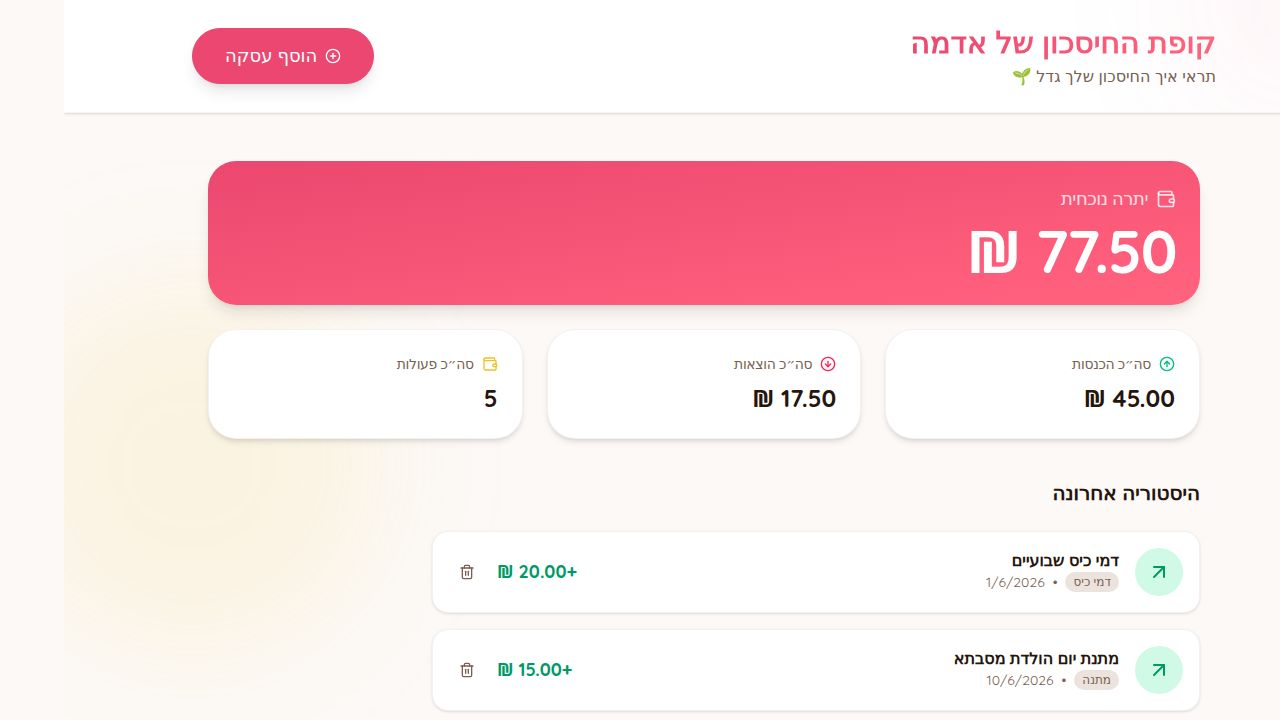
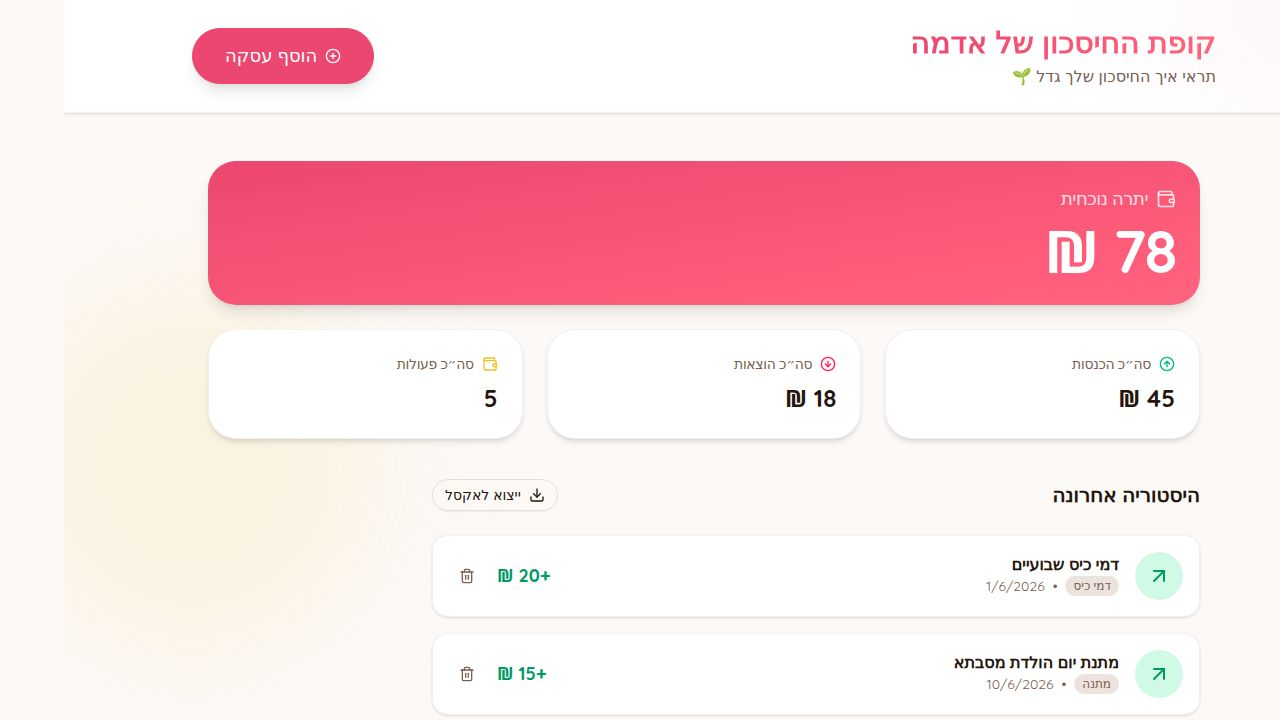
Add a button to export transaction data to an Excel file
Installs the `xlsx` package and adds a button to the transaction list component to export data to an Excel file with Hebrew column headers.

Replit-Commit-Author: Agent
Replit-Commit-Session-Id: feffa5e3-03b7-4a28-9c27-c189258d5397
Replit-Commit-Checkpoint-Type: full_checkpoint
Replit-Commit-Event-Id: 1dca9d4b-5010-4ef9-895c-2fdeb6291b89
Replit-Commit-Screenshot-Url: https://storage.googleapis.com/screenshot-production-us-central1/8194709f-346a-4715-935a-16188dc4f2d8/feffa5e3-03b7-4a28-9c27-c189258d5397/hXwExMm
Replit-Helium-Checkpoint-Created: true

diff --git a/artifacts/piggy-bank/src/components/transaction-list.tsx b/artifacts/piggy-bank/src/components/transaction-list.tsx
@@ -1,7 +1,7 @@
 import { useListTransactions, useDeleteTransaction, getListTransactionsQueryKey, getGetBalanceQueryKey, getGetSummaryQueryKey } from "@workspace/api-client-react";
 import { Card, CardContent } from "@/components/ui/card";
 import { format } from "date-fns";
-import { ArrowDownRight, ArrowUpRight, Trash2, Coins } from "lucide-react";
+import { ArrowDownRight, ArrowUpRight, Trash2, Coins, Download } from "lucide-react";
 import { Button } from "@/components/ui/button";
 import { Skeleton } from "@/components/ui/skeleton";
 import {
@@ -19,6 +19,7 @@ import { useQueryClient } from "@tanstack/react-query";
 import { useToast } from "@/hooks/use-toast";
 import { cn } from "@/lib/utils";
 import { useState } from "react";
+import * as XLSX from "xlsx";
 
 export function TransactionList() {
   const { data: transactions, isLoading } = useListTransactions();
@@ -59,6 +60,35 @@ export function TransactionList() {
     });
   };
 
+  const handleExport = () => {
+    if (!transactions || transactions.length === 0) return;
+
+    const rows = transactions.map((tx) => ({
+      "תאריך": format(new Date(tx.date), "d/M/yyyy"),
+      "סוג": tx.type === "income" ? "הכנסה" : "הוצאה",
+      "תיאור": tx.description,
+      "קטגוריה": tx.category,
+      "סכום (₪)": Number(tx.amount),
+      "יתרה לאחר (₪)": Number(tx.balanceAfter),
+    }));
+
+    const ws = XLSX.utils.json_to_sheet(rows, { skipHeader: false });
+
+    // RTL column widths
+    ws["!cols"] = [
+      { wch: 12 },
+      { wch: 10 },
+      { wch: 24 },
+      { wch: 14 },
+      { wch: 14 },
+      { wch: 18 },
+    ];
+
+    const wb = XLSX.utils.book_new();
+    XLSX.utils.book_append_sheet(wb, ws, "עסקאות");
+    XLSX.writeFile(wb, `קופת-החיסכון-${format(new Date(), "dd-MM-yyyy")}.xlsx`);
+  };
+
   if (isLoading) {
     return (
       <div className="space-y-4">
@@ -89,7 +119,19 @@ export function TransactionList() {
 
   return (
     <div className="space-y-4">
-      <h2 className="text-xl font-bold text-foreground mb-6">היסטוריה אחרונה</h2>
+      <div className="flex items-center justify-between mb-6">
+        <h2 className="text-xl font-bold text-foreground">היסטוריה אחרונה</h2>
+        <Button
+          variant="outline"
+          size="sm"
+          onClick={handleExport}
+          className="flex items-center gap-2 text-sm"
+        >
+          <Download className="h-4 w-4" />
+          ייצוא לאקסל
+        </Button>
+      </div>
+
       {transactions.map((tx, index) => {
         const isIncome = tx.type === "income";
         const isDeleting = deletingId === tx.id;
